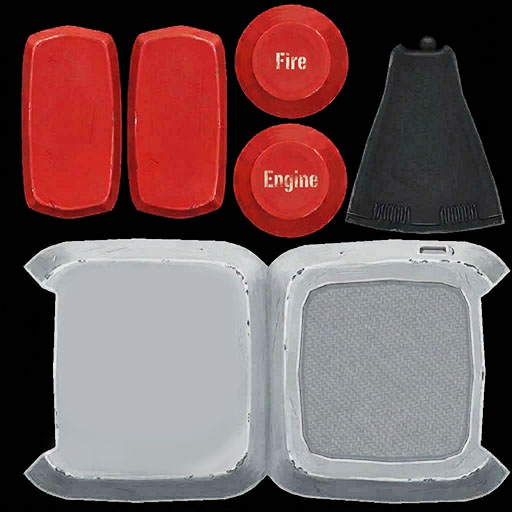
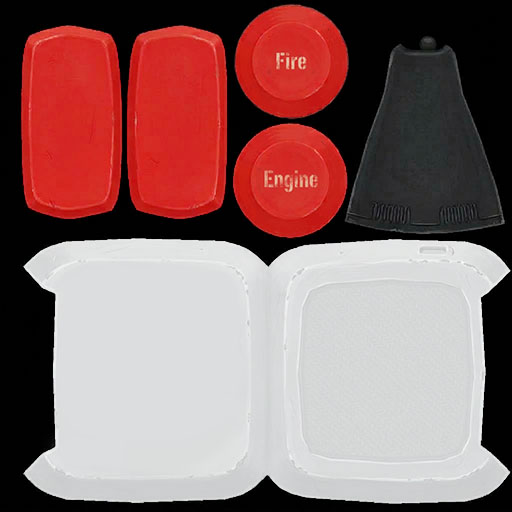
Fix controller texture/button pivot after model re-export
Updates to the re-exported ControllerAll.glb and ControllerDiffUse.jpg
(node names changed: ButtonBig/ButtonSmall/Object005Antena ->
ButtonEngine/ButtonFire/Antena, and the materials consolidated to one).

Also fixes two real bugs found while wiring the texture up:
- The diffuse map traversal targeted `scene`, which ends up empty once
  each part is reparented out of it via <primitive> - now traverses
  the actual node references instead.
- The button press-scale pivot was off-center because every node
  shares an identical shared scene-level transform (not per-button
  position data) - now computes each button's true center from its
  transformed geometry bounding box and uses a proper T(center) *
  S(k) * T(-center) pivot-scale construction instead of trusting the
  node's .position.

diff --git a/app/components/deshboard/ControllerModel.tsx b/app/components/deshboard/ControllerModel.tsx
@@ -1,5 +1,5 @@
 'use client'
-import { useEffect, useState } from 'react'
+import { useEffect, useMemo, useState } from 'react'
 import * as THREE from 'three'
 import { useGLTF, useTexture, Bounds, Center } from '@react-three/drei'
 import { ThreeEvent } from '@react-three/fiber'
@@ -9,9 +9,41 @@ type ControllerModelProps = {
   onFireClick: () => void
 }
 
+// the true center of a mesh's rendered shape (geometry bounding box, with the
+// node's own local translation/rotation/scale applied) - robust regardless of
+// whether the source file encodes a part's position via its node transform or
+// baked into the vertex data itself
+function getLocalCenter(node: THREE.Mesh): [number, number, number] {
+  node.updateMatrix()
+  node.geometry.computeBoundingBox()
+  const box = node.geometry.boundingBox!.clone().applyMatrix4(node.matrix)
+  const center = box.getCenter(new THREE.Vector3())
+  return [center.x, center.y, center.z]
+}
+
+function negate(v: [number, number, number]): [number, number, number] {
+  return [-v[0], -v[1], -v[2]]
+}
+
 const ControllerModel = ({ onEngineClick, onFireClick }: ControllerModelProps) => {
   const { nodes } = useGLTF('/ControllerAll.glb')
   const [pressed, setPressed] = useState<'engine' | 'fire' | null>(null)
+
+  // every node in this GLB (ControllerBody, ButtonEngine, ButtonFire, Antena)
+  // shares the exact same translation/rotation/scale - it's a shared scene-
+  // level transform, not per-button data - so each button's actual on-screen
+  // position is baked into its vertex data instead. Compute the true center
+  // from the transformed geometry bounding box rather than trusting .position.
+  // Captured once (via useMemo), since nodes.X are persistent shared objects
+  // and the underlying geometry doesn't change across re-renders.
+  const engineButtonCenter = useMemo<[number, number, number]>(
+    () => getLocalCenter(nodes.ButtonEngine as THREE.Mesh),
+    [nodes],
+  )
+  const fireButtonCenter = useMemo<[number, number, number]>(
+    () => getLocalCenter(nodes.ButtonFire as THREE.Mesh),
+    [nodes],
+  )
 
   const diffuseMap = useTexture('/ControllerDiffUse.jpg')
   diffuseMap.flipY = false
@@ -23,9 +55,9 @@ const ControllerModel = ({ onEngineClick, onFireClick }: ControllerModelProps) =
     // the time this runs - traverse the actual node references instead
     const controllerParts = [
       nodes.ControllerBody,
-      nodes.ButtonBig,
-      nodes.ButtonSmall,
-      nodes.Object005Antena,
+      nodes.ButtonEngine,
+      nodes.ButtonFire,
+      nodes.Antena,
     ]
 
     controllerParts.forEach((part) => {
@@ -86,8 +118,16 @@ const ControllerModel = ({ onEngineClick, onFireClick }: ControllerModelProps) =
             rotate +90deg about X so buttons face the camera and the antenna points up */}
         <group rotation={[Math.PI / 2, 0, 0]}>
           <primitive object={nodes.ControllerBody} />
-          <primitive object={nodes.Object005Antena} />
+          <primitive object={nodes.Antena} />
+          {/* standard "scale about a pivot" construction: T(center) * S(k) *
+              T(-center) - the outer group sits at the button's true center
+              (so scaling it pivots there), the inner group cancels that
+              offset back out, and the primitive keeps its original,
+              untouched transform - this stays correct regardless of whether
+              the button's position is encoded via its node transform or
+              baked into the vertex data itself */}
           <group
+            position={engineButtonCenter}
             scale={pressed === 'engine' ? 0.92 : 1}
             onClick={handleClick(onEngineClick)}
             onPointerOver={handlePointerOver}
@@ -95,9 +135,12 @@ const ControllerModel = ({ onEngineClick, onFireClick }: ControllerModelProps) =
             onPointerDown={handlePointerDown('engine')}
             onPointerUp={handlePointerUp('engine')}
           >
-            <primitive object={nodes.ButtonBig} />
+            <group position={negate(engineButtonCenter)}>
+              <primitive object={nodes.ButtonEngine} />
+            </group>
           </group>
           <group
+            position={fireButtonCenter}
             scale={pressed === 'fire' ? 0.92 : 1}
             onClick={handleClick(onFireClick)}
             onPointerOver={handlePointerOver}
@@ -105,7 +148,9 @@ const ControllerModel = ({ onEngineClick, onFireClick }: ControllerModelProps) =
             onPointerDown={handlePointerDown('fire')}
             onPointerUp={handlePointerUp('fire')}
           >
-            <primitive object={nodes.ButtonSmall} />
+            <group position={negate(fireButtonCenter)}>
+              <primitive object={nodes.ButtonFire} />
+            </group>
           </group>
         </group>
       </Center>
